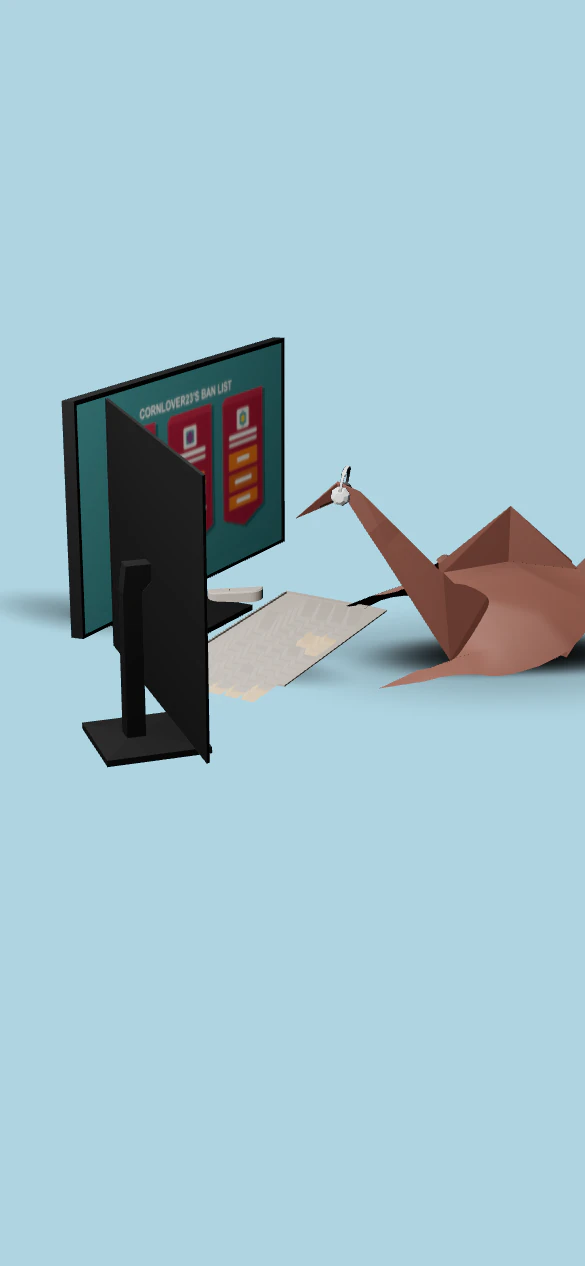
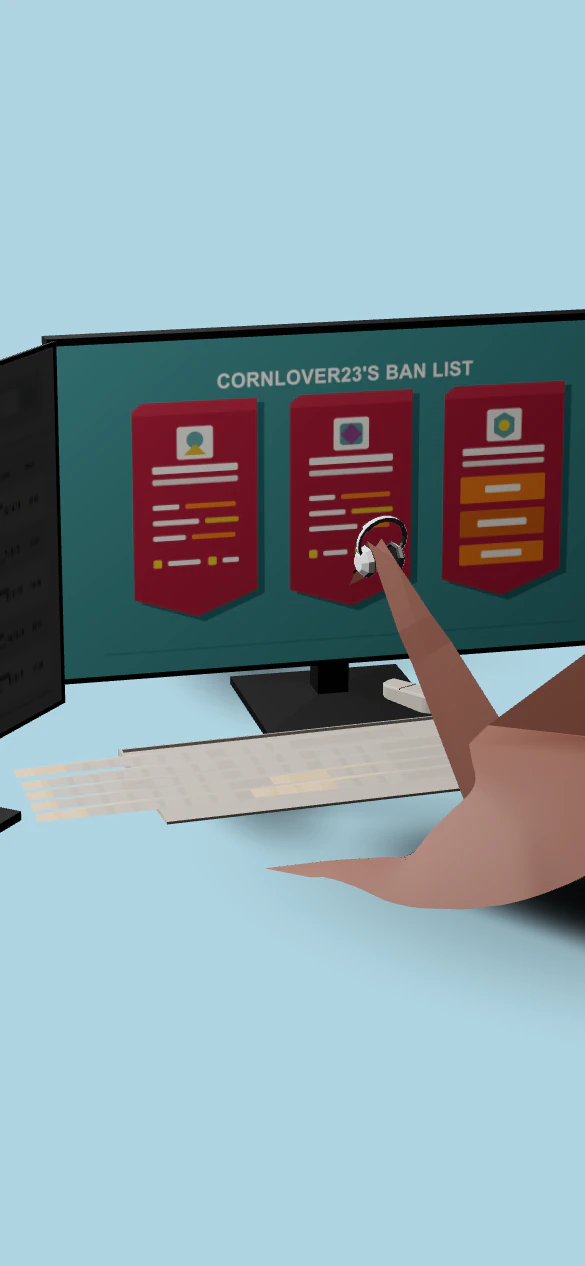
feat: reframe the league-ban hero to fill its band without hitting the copy
The old camera sat almost along the monitor axis, so the newly canted left
panel was edge-on and read as a thin dark line, and the whole workstation
rendered at 0.236 of viewport width against the mock's 0.343.

Reframes to a source-aligned camera on both breakpoints. Desktop now runs
fov 16.68 from [13.3391, 5.9409, 4.0922], mobile fov 24.1 -- both monitors
read, and the assembly lands at 0.2953 of viewport width, 86% of the mock
against the previous 69%.

It stops at 86% rather than 100% because the rest is not reachable from the
camera. The model fills its canvas, so its on-screen size is bounded by the
stage, and the stage is bounded by the copy: the kicker starts at y=594 inside
the chapter where the mock's heading does not begin until roughly y=890, since
this page carries a kicker, a reflection, a technical line and a GitHub link
that the mock does not. Sizing to the mock's number requires a 662px stage,
which puts the crane through "COLLEGE PROJECT" and the end of the heading, and
slices the crane's body off at the canvas edge. Closing the last 14% is a
layout decision about the copy, not a camera value, so it is left alone.

Mobile was framed against the wrong constraint. Its binding limit is width,
not height: at the assembly's 1.625 aspect a height-filling model needs 471px
of a 390px viewport. Sizing to width gives 225.5 x 360.5 in a 390x384 stage,
clear of every edge and clear of the floating nav, which was covering the
monitor tops.
[…]

diff --git a/app/three/scene-registry.test.ts b/app/three/scene-registry.test.ts
@@ -364,15 +364,15 @@ describe("scene registry", () => {
       },
       "league-ban": {
         desktop: {
-          cameraPosition: [4.5, 2.9, 6.5],
-          cameraTarget: [0, 0, 0],
-          fov: 34,
+          cameraPosition: [13.3391, 5.9409, 4.0922],
+          cameraTarget: [0.7595, 0.781, 1.02],
+          fov: 16.68,
           rotationArea: { top: 10, right: 14, bottom: 46, left: 14 },
         },
         mobile: {
-          cameraPosition: [7.5, 5.2, 13.5],
-          cameraTarget: [0, -0.1, 0],
-          fov: 38,
+          cameraPosition: [14.59246, 5.6729, 4.41842],
+          cameraTarget: [0.7549, 1.042, 1.039],
+          fov: 24.1,
           rotationArea: { top: 6, right: 6, bottom: 50, left: 6 },
         },
       },

diff --git a/app/globals.css b/app/globals.css
@@ -672,8 +672,13 @@ body:has(.scene-runtime[data-three-status="error"])
   border-radius: 0;
 }
 
+/* The model crosses the arch apex in the mock, so this stage starts at the
+   chapter top rather than 3rem below the arch as it used to. Height is bounded
+   by the copy, not by taste: the kicker starts at y=594 within the chapter and
+   the model fills its canvas, so a taller stage puts the crane on the heading. */
 .project-chapter--league-ban > .scene-stage {
-  top: calc(var(--project-arch-top) + 3rem);
+  top: 0;
+  height: min(53.9svh, 36.4rem);
 }
 
 .project-chapter--froggie-adventures > .scene-stage {

diff --git a/app/three/scene-registry.ts b/app/three/scene-registry.ts
@@ -506,15 +506,15 @@ export const SCENE_DEFINITIONS = {
       alt: "",
     },
     desktop: frame(
-      [4.5, 2.9, 6.5],
-      [0, 0, 0],
-      34,
+      [13.3391, 5.9409, 4.0922],
+      [0.7595, 0.781, 1.02],
+      16.68,
       PROJECT_CHAPTER_DESKTOP_AREA,
     ),
     mobile: frame(
-      [7.5, 5.2, 13.5],
-      [0, -0.1, 0],
-      38,
+      [14.59246, 5.6729, 4.41842],
+      [0.7549, 1.042, 1.039],
+      24.1,
       PROJECT_CHAPTER_MOBILE_AREA,
     ),
     lighting: LEAGUE_BAN_LIGHTING,
